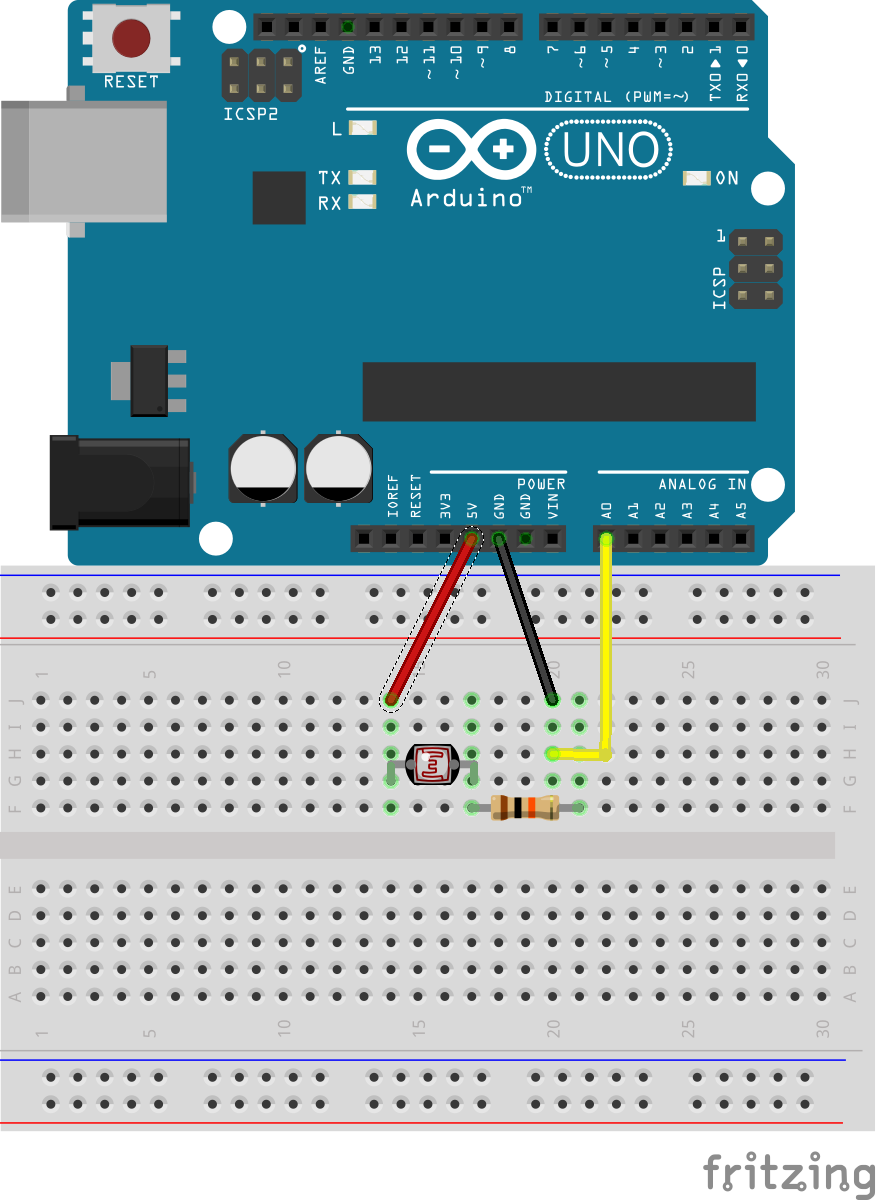
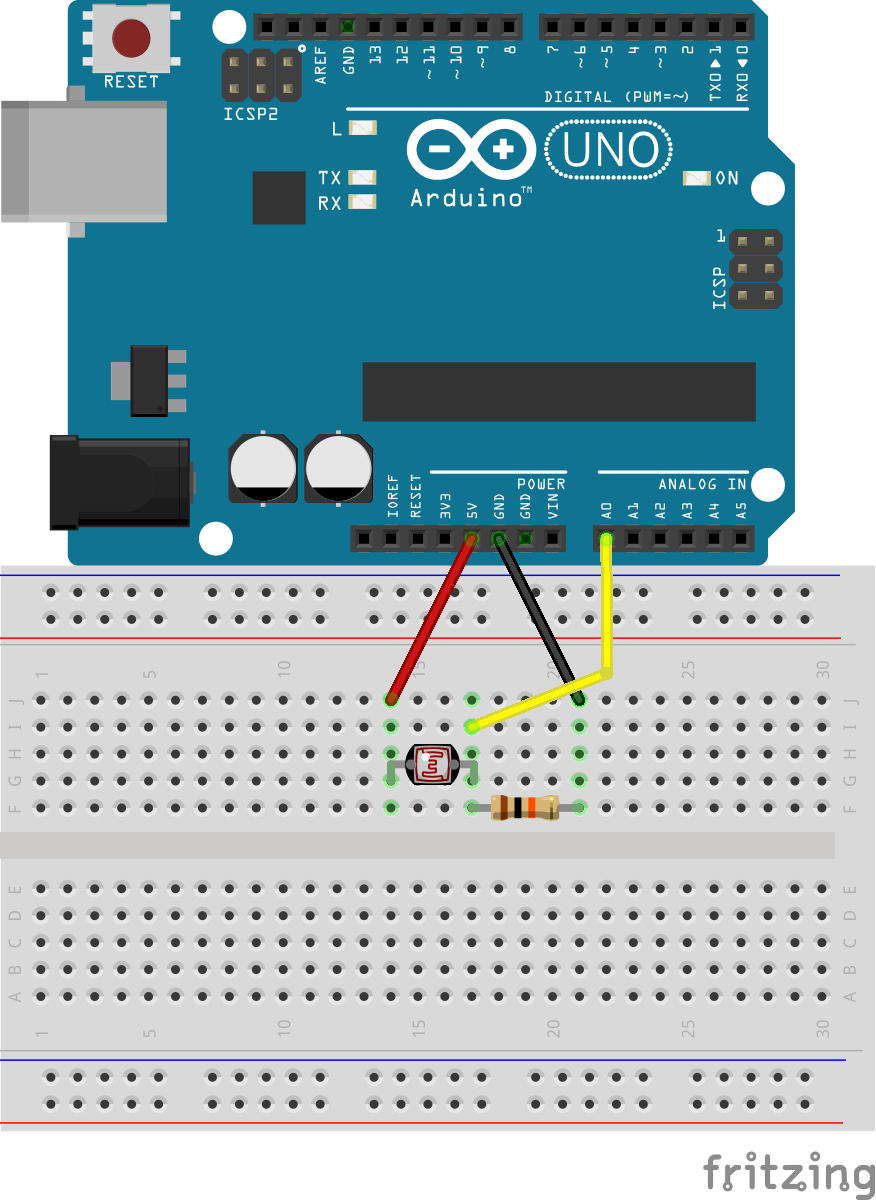
bluetooth carl

Changed region(s): [[0.524, 0.4625, 0.7089, 0.6783]]

diff --git a/pages/carlday-bluetoothbot.md b/pages/carlday-bluetoothbot.md
@@ -1,0 +1,21 @@
+---
+layout: page
+title: Bluetooth bot
+---
+
+##Bluetooth Bot.
+
+This project is for driving your carlbot using a usb gamepad hooked up to your computer using bluetooth.
+
+You'll need: 
+
+- [HC06 Bluetooth adapter](http://www.amazon.com/s/ref=nb_sb_noss_2?url=search-alias%3Daps&field-keywords=HC-06) - The bluetooth adapter to hook up to your robot.
+- [CarlPad](https://chrome.google.com/webstore/detail/carlpad/doklkdakcgcanlplenidpdoipnefpgic) - A plugin for Google Chrome to use to drive your robot
+- USB Gamepad - For example the [Rock Candy PS3 Controller](http://www.amazon.com/Rock-Candy-PS3-Controller-PlayStation-3/dp/B008U2XEBM/ref=sr_1_2?ie=UTF8&qid=1434123699&sr=8-2&keywords=rock+candy+gamepad)
+
+## Circuit
+
+<img src="../assets/images/carlday-bluetooth.png" width="400"/>
+
+## Sketch 
+<script src="https://gist.github.com/kneumei/c9698074ee0c2a0edd4b"></script>
